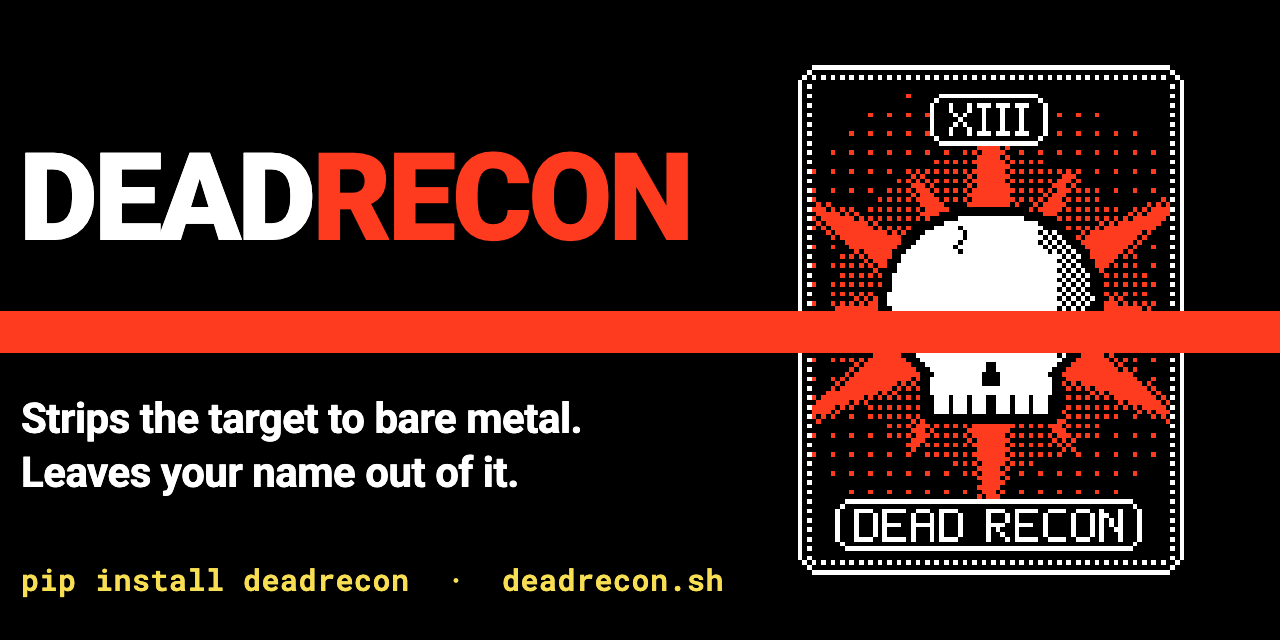
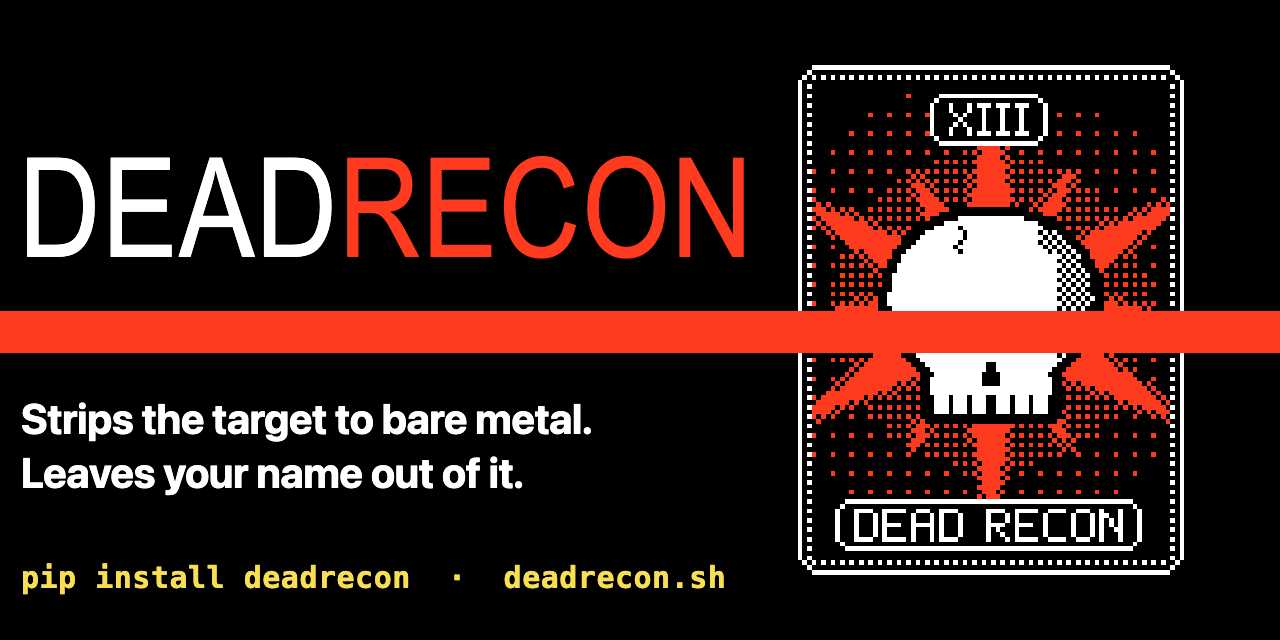
docs: match social-card wordmark to the site's Anton display font
Load Anton (and Roboto) locally from the same ./fonts/ files the live site
uses, and set the wordmark in Anton 400 uppercase like the site hero, so it
no longer looks thin. Sized to 138px to keep a gap to the card. Install line
now uses the site's system-mono stack. No network needed to regenerate.

diff --git a/docs/assets/deadrecon-social.src.html b/docs/assets/deadrecon-social.src.html
@@ -11,15 +11,18 @@
       "file://$PWD/deadrecon-social.src.html"
 
   Reuses deadrecon-card.svg (the XIII tarot art) for the right panel.
-  Fonts load from Google Fonts, so a network connection is needed when rendering.
+  Fonts (Anton display + Roboto) load locally from ./fonts/ -- the same files
+  the live site uses -- so no network is needed when rendering.
 -->
 <html lang="en">
 <head>
 <meta charset="utf-8">
-<link rel="preconnect" href="https://fonts.googleapis.com">
-<link rel="preconnect" href="https://fonts.gstatic.com" crossorigin>
-<link href="https://fonts.googleapis.com/css2?family=Roboto:wght@700;900&family=Roboto+Mono:wght@500;600&display=swap" rel="stylesheet">
 <style>
+  /* Local fonts, same files the live site (deadrecon.sh) uses */
+  @font-face{ font-family:'Anton'; src:url('fonts/anton-latin-400-normal.woff2') format('woff2'); font-weight:400; font-display:swap; }
+  @font-face{ font-family:'Roboto'; src:url('fonts/roboto-latin-400-normal.woff2') format('woff2'); font-weight:400; font-display:swap; }
+  @font-face{ font-family:'Roboto'; src:url('fonts/roboto-latin-500-normal.woff2') format('woff2'); font-weight:500; font-display:swap; }
+  @font-face{ font-family:'Roboto'; src:url('fonts/roboto-latin-700-normal.woff2') format('woff2'); font-weight:700; font-display:swap; }
   :root{ --bg:#000; --fg:#fff; --red:#ff3b1f; --gold:#f7de52; }
   *{ margin:0; padding:0; box-sizing:border-box; }
   html,body{ width:1280px; height:640px; background:var(--bg); overflow:hidden; }
@@ -31,8 +34,8 @@
 
   .wm{
     position:absolute; top:138px; left:19px; z-index:2;
-    font-family:"Roboto", system-ui, sans-serif; font-weight:900;
-    font-size:122px; line-height:1; letter-spacing:-4px; white-space:nowrap;
+    font-family:"Anton", "Arial Narrow", Impact, sans-serif; font-weight:400;
+    font-size:138px; line-height:1; letter-spacing:0.01em; text-transform:uppercase; white-space:nowrap;
   }
   .wm .w{ color:var(--fg); }
   .wm .r{ color:var(--red); }
@@ -44,7 +47,7 @@
   }
   .install{
     position:absolute; top:560px; left:21px; z-index:2;
-    font-family:"Roboto Mono", ui-monospace, monospace; font-weight:600;
+    font-family:ui-monospace, "SF Mono", Menlo, Consolas, "Liberation Mono", monospace; font-weight:600;
     font-size:30px; color:var(--gold); letter-spacing:0.5px;
   }
   .card{
